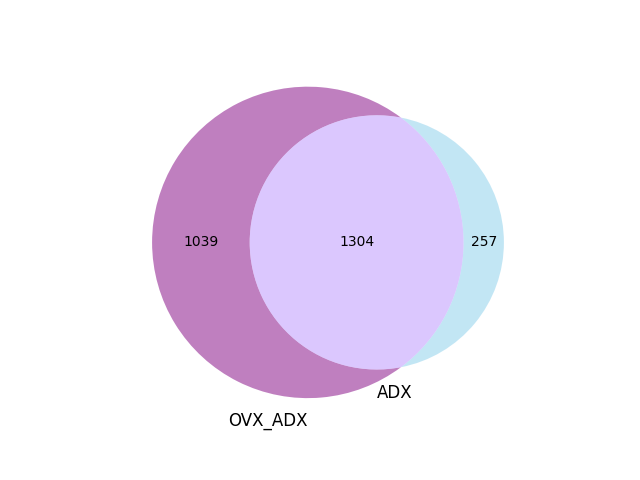
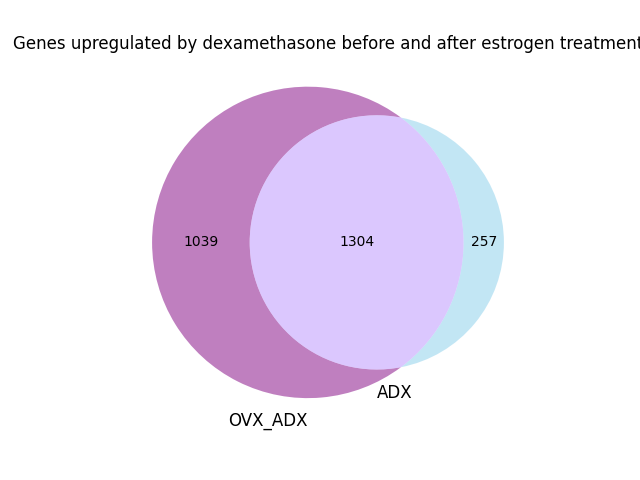
Graph titles

Changed region(s): [[0.0312, 0.0625, 1.0, 0.125]]

diff --git a/fold_change_analysis.py b/fold_change_analysis.py
@@ -54,7 +54,7 @@ def find_mutual_genes(list1, list2):
 
 def find_unique_genes(list1, list2):
     """Return list of unique genes between two given gene lists."""
-    
+
     unique_list1_genes = []
 
     for list1_gene in list1:
@@ -101,10 +101,12 @@ def main():
 
     # Create Venn diagrams
     venn2(subsets = (len(ovx_upregulated_genes), len(non_ovx_upregulated_genes), len(mutual_upregulated_genes)), set_labels = ('OVX_ADX', 'ADX'), set_colors=('purple', 'skyblue'), alpha = 0.5)
+    plt.title("Genes downregulated by dexamethasone before and after estrogen treatment")
     plt.savefig("images/upregulated.png")
     plt.show()
 
     venn2(subsets = (len(ovx_downregulated_genes), len(non_ovx_downregulated_genes), len(mutual_downregulated_genes)), set_labels = ('OVX_ADX', 'ADX'), set_colors=('purple', 'skyblue'), alpha = 0.5)
+    plt.title("Genes upregulated by dexamethasone before and after estrogen treatment")
     plt.savefig("images/downregulated.png")
     plt.show()
 
